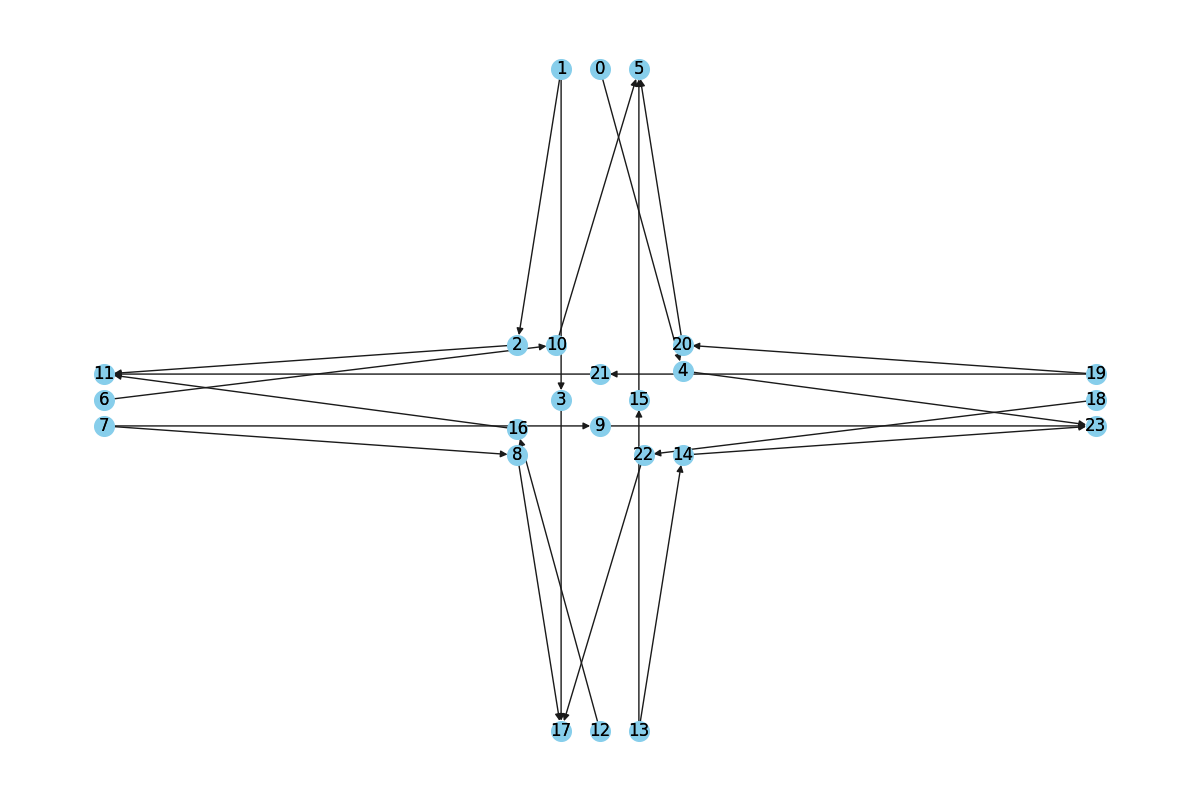
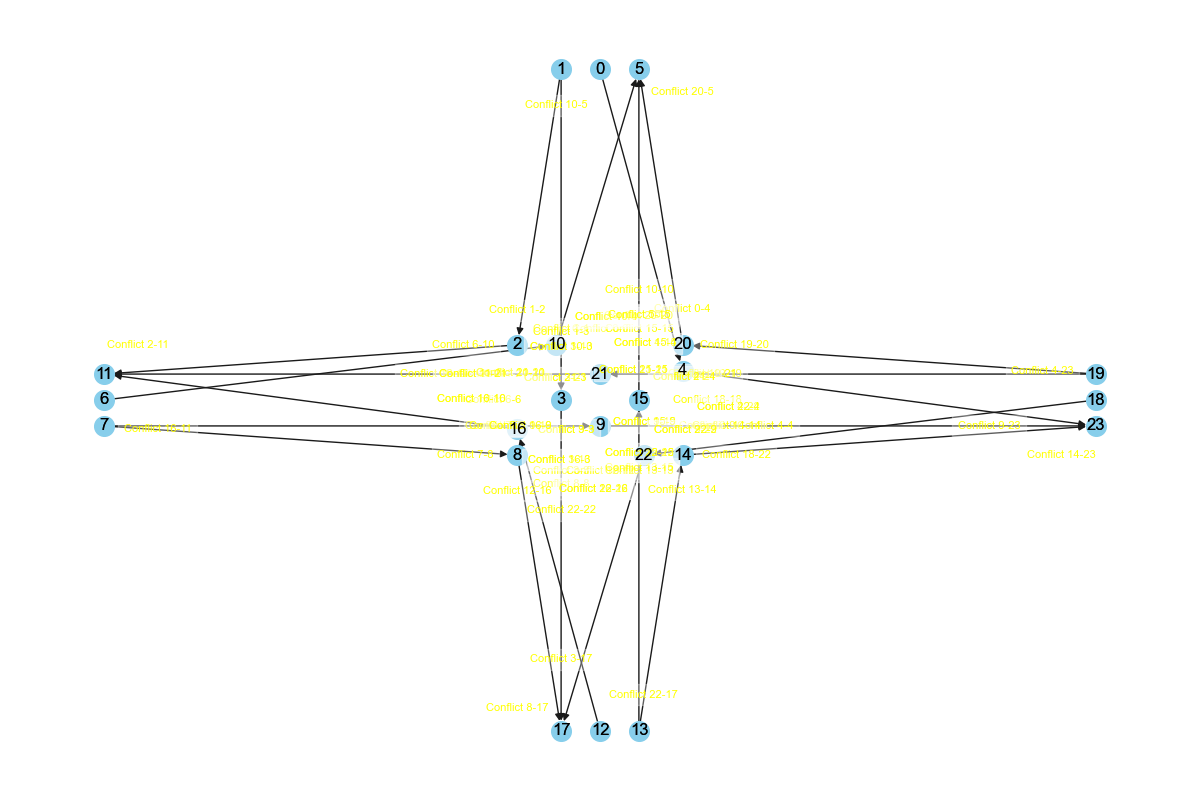
add conflict in map

diff --git a/scripts/pomdp_core.py b/scripts/pomdp_core.py
@@ -404,6 +404,24 @@ class TopoMap:
             edge_color='k', linewidths=1, font_size=12
         )
 
+        # Add conflict points as text annotations
+        for (wp_id1, wp_id2), (dist1, dist2) in self.conflict_point.items():
+            # Calculate positions of conflict points based on distances to the end of the waypoints
+            conflict_pos1 = self.find_waypoint_by_length(wp_id1, dist1)
+            conflict_pos2 = self.find_waypoint_by_length(wp_id2, dist2)
+
+            if conflict_pos1 is not None and conflict_pos2 is not None:
+                # Take the midpoint of the conflict positions for annotation
+                conflict_x = (conflict_pos1[0] + conflict_pos2[0]) / 2
+                conflict_y = (conflict_pos1[1] + conflict_pos2[1]) / 2
+
+                # Add text annotation for the conflict
+                plt.text(
+                    conflict_x, conflict_y,
+                    f"Conflict {wp_id1}-{wp_id2}",
+                    fontsize=8, color='red', ha='center', va='center', bbox=dict(facecolor='white', alpha=0.3)
+                )
+
         # Add waypoint labels
         labels = {key: f"{key}" for key in pos.keys()}
         nx.draw_networkx_labels(G, pos, labels, font_size=12, font_color="black")

diff --git a/scripts/pomdp_run.py b/scripts/pomdp_run.py
@@ -171,6 +171,7 @@ for (from_, to_, i), lane in lanes_dict.items():
             map.add_confliction(index, c)
     index = index + 1
 
+map.find_all_conflict()
 map.draw_tree()
 
 # Load an agent from the class.
